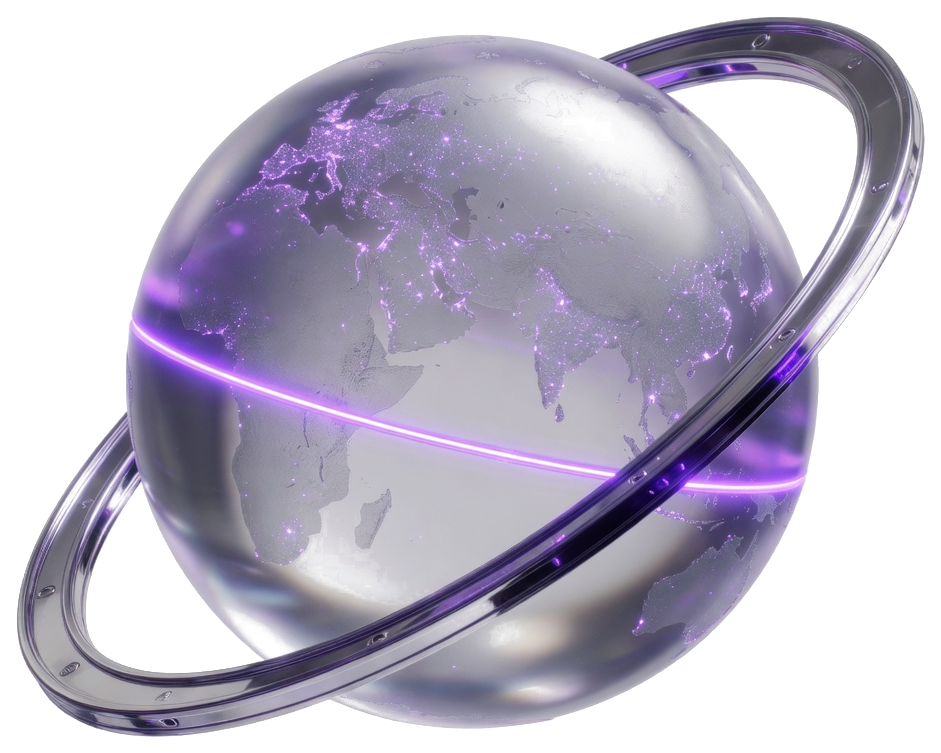
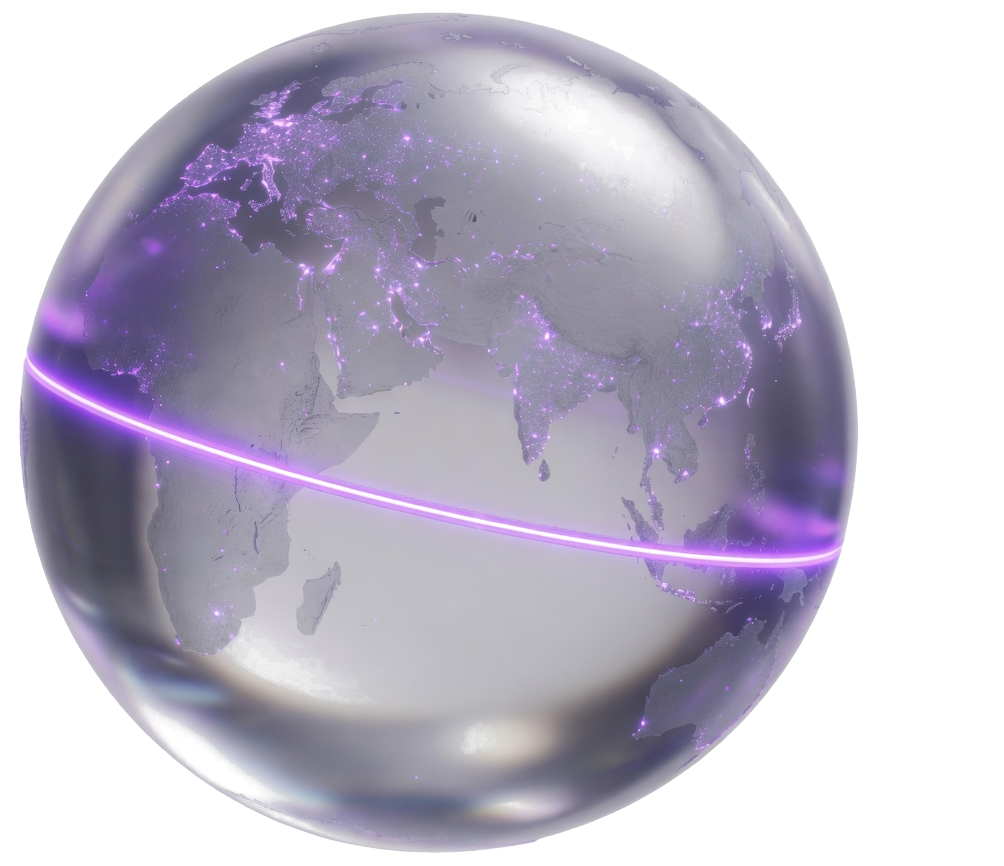
Animate the indices globe and float index chips.
Drop the Saturn ring, keep the purple equator, run a spark along that band, and bring back themed index cards with flags around the planet.

diff --git a/app/globals.css b/app/globals.css
@@ -3729,19 +3729,81 @@ a {
   transform-origin: 70% 20%;
 }
 
-.ui-indices-field__globe {
-  --globe-x: -22%;
+.ui-indices-field__planet {
+  --globe-x: -18%;
   --globe-y: -50%;
   position: absolute;
-  left: 62%;
+  left: 66%;
   top: 50%;
-  width: min(58vw, 720px);
-  height: auto;
-  max-height: none;
+  width: min(46vw, 560px);
   transform: translate(var(--globe-x), var(--globe-y));
+  animation: ui-index-globe var(--component-indices-field-duration-drift-slow) var(--motion-easing-standard) infinite;
+}
+
+.ui-indices-field__globe {
+  display: block;
+  width: 100%;
+  height: auto;
   opacity: 0.96;
   filter: drop-shadow(var(--component-indices-field-shadow));
-  animation: ui-index-globe var(--component-indices-field-duration-drift-slow) var(--motion-easing-standard) infinite;
+}
+
+.ui-indices-field__orbit {
+  position: absolute;
+  inset: 0;
+  width: 100%;
+  height: 100%;
+  overflow: visible;
+  pointer-events: none;
+}
+
+.ui-indices-field__chip {
+  --chip-travel: var(--space-16);
+  position: absolute;
+  left: var(--chip-x);
+  top: var(--chip-y);
+  z-index: 1;
+  display: flex;
+  align-items: center;
+  gap: var(--space-2);
+  min-width: var(--component-indices-field-chip-width);
+  padding: var(--component-indices-field-chip-pad);
+  border: var(--border-width-default) solid var(--primitive-color-purple200);
+  border-radius: var(--radius-xl);
+  background: var(--primitive-color-purple100);
+  box-shadow: var(--component-indices-field-shadow);
+  color: var(--color-text-primary);
+  font-family: var(--typography-font-family-body);
+  font-size: var(--typography-font-size-c1);
+  opacity: 1;
+  transform: translate(-50%, -50%);
+  animation:
+    ui-index-chip-enter var(--component-indices-field-duration-enter) var(--motion-easing-emphasized) both,
+    ui-index-chip-float var(--component-indices-field-duration-drift) var(--motion-easing-standard) infinite;
+  animation-delay: var(--enter-delay), calc(var(--enter-delay) + var(--component-indices-field-duration-enter));
+}
+
+.ui-indices-field__chip img {
+  display: block;
+  width: var(--space-5);
+  height: var(--space-5);
+  border-radius: var(--radius-pill);
+  object-fit: cover;
+}
+
+.ui-indices-field__chip b {
+  font-family: var(--typography-font-family-heading);
+  font-weight: var(--typography-font-weight-semibold);
+}
+
+.ui-indices-field__chip em {
+  margin-left: auto;
+  font-style: normal;
+  color: var(--primitive-color-green600);
+}
+
+.ui-indices-field__chip--down em {
+  color: var(--primitive-color-red500);
 }
 
 .ui-indices-field__tape {
@@ -3807,10 +3869,31 @@ a {
 @keyframes ui-index-globe {
   0%,
   100% {
-    transform: translate(var(--globe-x), var(--globe-y)) rotate(-2deg);
+    transform: translate(var(--globe-x), var(--globe-y));
   }
   50% {
-    transform: translate(var(--globe-x), calc(var(--globe-y) - var(--space-2))) rotate(2deg);
+    transform: translate(var(--globe-x), calc(var(--globe-y) - var(--space-2)));
+  }
+}
+
+@keyframes ui-index-chip-enter {
+  from {
+    opacity: 0;
+    transform: translate(calc(-50% + var(--chip-travel)), -50%);
+  }
+  to {
+    opacity: 1;
+    transform: translate(-50%, -50%);
+  }
+}
+
+@keyframes ui-index-chip-float {
+  0%,
+  100% {
+    transform: translate(-50%, -50%);
+  }
+  50% {
+    transform: translate(calc(-50% + var(--space-1)), calc(-50% - var(--space-2)));
   }
 }
 
@@ -4952,8 +5035,13 @@ a {
 
   .ui-indices-ticker,
   .ui-indices-field__orb,
-  .ui-indices-field__globe {
+  .ui-indices-field__planet,
+  .ui-indices-field__chip {
     animation: none;
+  }
+
+  .ui-indices-field__orbit {
+    display: none;
   }
 }
 
@@ -5098,7 +5186,8 @@ a {
     height: var(--component-coin-field-orb-size-sm);
   }
 
-  .ui-indices-field__globe {
+  .ui-indices-field__planet,
+  .ui-indices-field__chip {
     display: none;
   }
 

diff --git a/components/ui/IndicesField.tsx b/components/ui/IndicesField.tsx
@@ -9,9 +9,18 @@ const TICKER = [
   { symbol: "CA60", change: "−0.08%" },
 ] as const;
 
+const CHIPS = [
+  { symbol: "US500", change: "+0.42%", icon: "/brand/flags/us.svg", x: "57%", y: "20%" },
+  { symbol: "NAS100", change: "+0.61%", icon: "/brand/flags/us.svg", x: "76%", y: "12%" },
+  { symbol: "AUS200", change: "+0.18%", icon: "/brand/flags/au.svg", x: "84%", y: "32%" },
+  { symbol: "GER40", change: "−0.12%", icon: "/brand/flags/de.svg", x: "84%", y: "60%" },
+  { symbol: "HK50", change: "+0.27%", icon: "/brand/flags/hk.svg", x: "72%", y: "80%" },
+  { symbol: "JPN225", change: "+0.33%", icon: "/brand/flags/jp.svg", x: "54%", y: "72%" },
+] as const;
+
 /**
  * Decorative equity-indices atmosphere.
- * Right-weighted 3D globe + bottom ticker. Not a live feed.
+ * Globe + equator spark + index chips + bottom ticker. Not a live feed.
  */
 export function IndicesField() {
   return (
@@ -20,14 +29,64 @@ export function IndicesField() {
       <span className="ui-indices-field__orb ui-indices-field__orb--b" />
       <span className="ui-indices-field__orb ui-indices-field__orb--c" />
       <div className="ui-indices-field__grid" />
-      <img
-        className="ui-indices-field__globe"
-        src="/images/indices/globe.png"
-        alt=""
-        width={941}
-        height={753}
-        draggable={false}
-      />
+      <div className="ui-indices-field__planet">
+        <img
+          className="ui-indices-field__globe"
+          src="/images/indices/globe.png"
+          alt=""
+          width={1004}
+          height={866}
+          draggable={false}
+        />
+        <svg className="ui-indices-field__orbit" viewBox="0 0 100 86" preserveAspectRatio="none">
+          <defs>
+            <filter id="ui-indices-dot-glow" x="-80%" y="-80%" width="260%" height="260%">
+              <feGaussianBlur stdDeviation="1.1" result="blur" />
+              <feMerge>
+                <feMergeNode in="blur" />
+                <feMergeNode in="SourceGraphic" />
+              </feMerge>
+            </filter>
+          </defs>
+          <path
+            id="ui-indices-eq"
+            d="M 13 44 C 35 51 69 53 88 49 C 69 42 35 40 13 44"
+            fill="none"
+          />
+          <g opacity="0.4">
+            <circle r="1.8" fill="var(--primitive-color-purple300)" />
+            <animateMotion dur="8s" repeatCount="indefinite" begin="-1.2s">
+              <mpath href="#ui-indices-eq" />
+            </animateMotion>
+          </g>
+          <g filter="url(#ui-indices-dot-glow)">
+            <circle r="2.15" fill="var(--primitive-color-purple400)" />
+            <circle r="0.85" fill="var(--primitive-color-gray0)" />
+            <animateMotion dur="8s" repeatCount="indefinite">
+              <mpath href="#ui-indices-eq" />
+            </animateMotion>
+          </g>
+        </svg>
+      </div>
+      {CHIPS.map((chip, index) => (
+        <span
+          key={chip.symbol}
+          className={
+            chip.change.startsWith("−") || chip.change.startsWith("-")
+              ? "ui-indices-field__chip ui-indices-field__chip--down"
+              : "ui-indices-field__chip"
+          }
+          style={{
+            ["--chip-x" as string]: chip.x,
+            ["--chip-y" as string]: chip.y,
+            ["--enter-delay" as string]: `${index * 90}ms`,
+          }}
+        >
+          <img src={chip.icon} alt="" width={20} height={20} />
+          <b>{chip.symbol}</b>
+          <em>{chip.change}</em>
+        </span>
+      ))}
     </div>
   );
 }
